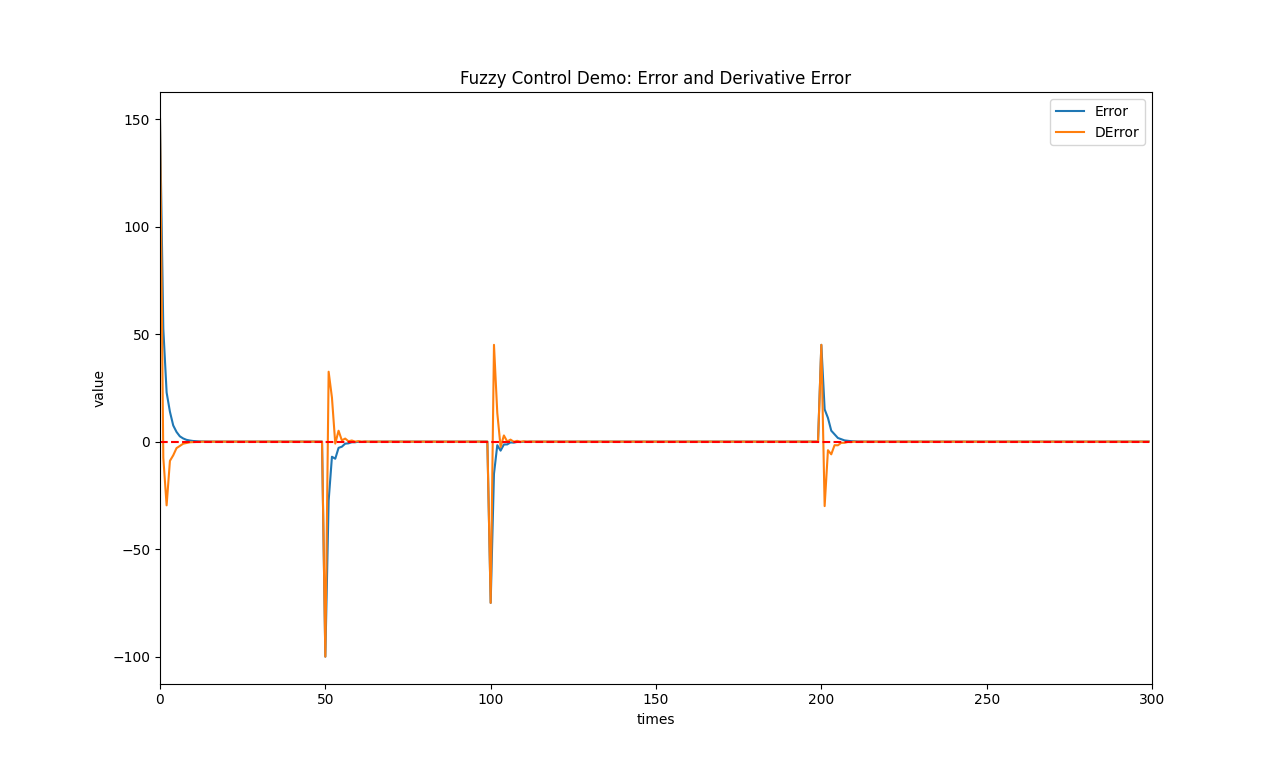
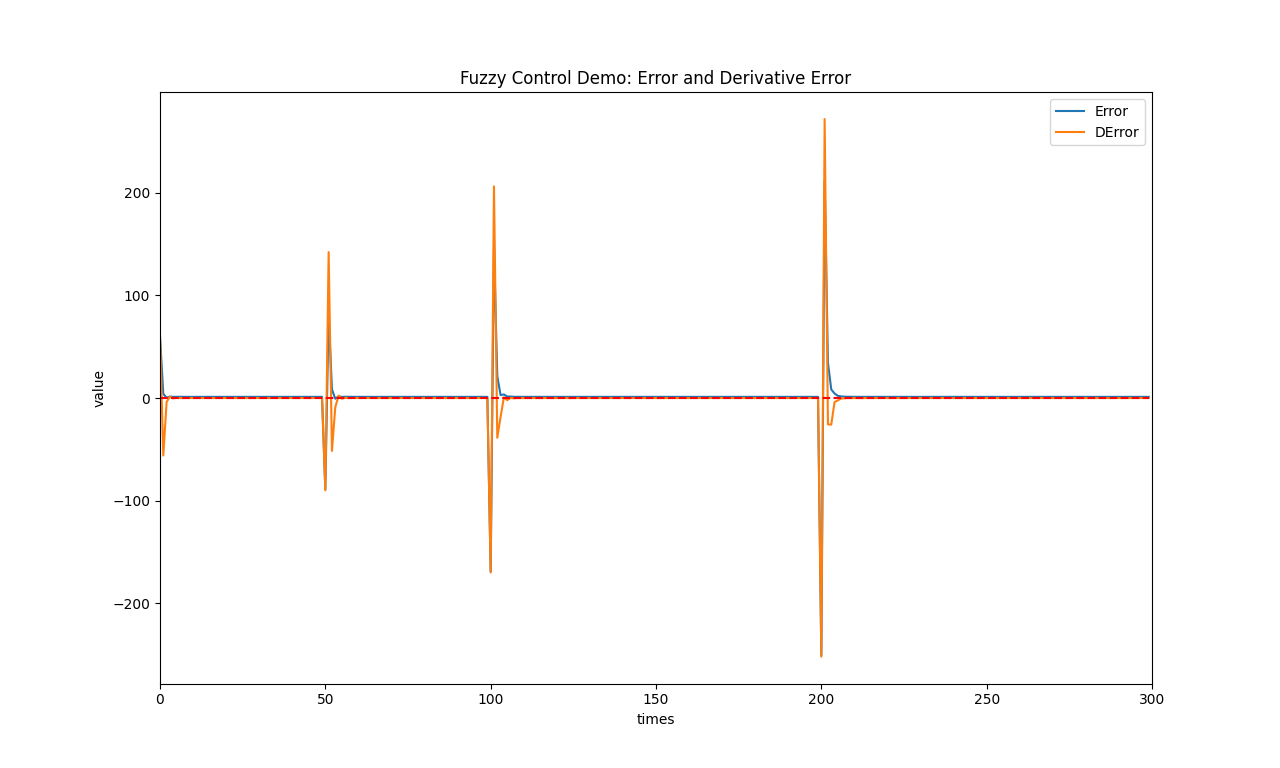
feat: update controller switch logic

diff --git a/src/fuzzy_logic.cc b/src/fuzzy_logic.cc
@@ -44,16 +44,9 @@ void FuzzyLogic::rangeCheck(scalar &input, Membership *membership)
     }
 }
 
-bool FuzzyLogic::controllerSwitchCheck(scalar err, scalar d_err)
+bool FuzzyLogic::controllerSwitchCheck(scalar err)
 {
-    if (err > e->getBound() * switch_ratio_ || err < -e->getBound() * switch_ratio_) {
-        return true;
-    }
-    if (d_err > ec->getBound() * switch_ratio_ || d_err < -ec->getBound() * switch_ratio_) {
-        return true;
-    }
-
-    return false;
+    return (err > e->getBound() * switch_ratio_) || (err < -e->getBound() * switch_ratio_);
 }
 
 static size_t iter = 0;
@@ -74,7 +67,7 @@ scalar FuzzyLogic::algo(const Control_t input, bool use_p_ctrl, const scalar out
         = ec->getFactor() * (fabs(d_err) > ec->getBound() ? sign(err) * ec->getBound() : d_err);
     control_.prev_err = fabs(err) > e->getBound() ? sign(err) * e->getBound() : err;
 
-    if (use_p_ctrl && controllerSwitchCheck(err, d_err)) {
+    if (use_p_ctrl && controllerSwitchCheck(err)) {
         output = p_ctrl->algo(err);
         if (output >= u->getBound() * proportional_u_ratio_) {
             output = u->getBound() * proportional_u_ratio_;

diff --git a/example/demo.cc b/example/demo.cc
@@ -91,11 +91,12 @@ int main(int argc, char *argv[])
     fuzzy.setSwitchRatio(1.5);
     fuzzy.getInfo();
 
-#define CONTROL_TEST_CONSTANT_TARGET    (0)
-#define CONTROL_TEST_SINE_TARGET        (1)
-#define CONTROL_TEST_USE_P_CONTROLLER   (0)
+#define CONTROL_TEST_CONSTANT_TARGET    (1)
+#define CONTROL_TEST_SINE_TARGET        (0)
+#define CONTROL_TEST_USE_P_CONTROLLER   (1)
 #if CONTROL_TEST_CONSTANT_TARGET
     fc::Control_t control;
+    static const fc::scalar target = 300.0;
     control.target = 300.0;
     control.actual = 0.0;
 
@@ -107,10 +108,12 @@ int main(int argc, char *argv[])
             control.target = -50.0;
         } else if (i == 200) {
             control.target = 40.0;
+        } else {
+            control.target = target + i * 5;
         }
 
         // use forward feedback control
-        control.actual += (control.target - control.actual) * 0.5;
+        control.actual += (control.target - control.actual) * 0.8;
 
         if (CONTROL_TEST_USE_P_CONTROLLER) {
             control.actual += fuzzy.algo(control, true, /*exp^*/0.2);

diff --git a/include/fuzzy/fuzzy_logic.h b/include/fuzzy/fuzzy_logic.h
@@ -69,7 +69,7 @@ private:
     CentroidPair centroid(size_t rule_id, scalar truncation_premise);
 
     void rangeCheck(scalar &input, Membership *membership);
-    bool controllerSwitchCheck(scalar err, scalar d_err);
+    bool controllerSwitchCheck(scalar err);
 
 private:
     std::vector<Control_t> control_plot_;
